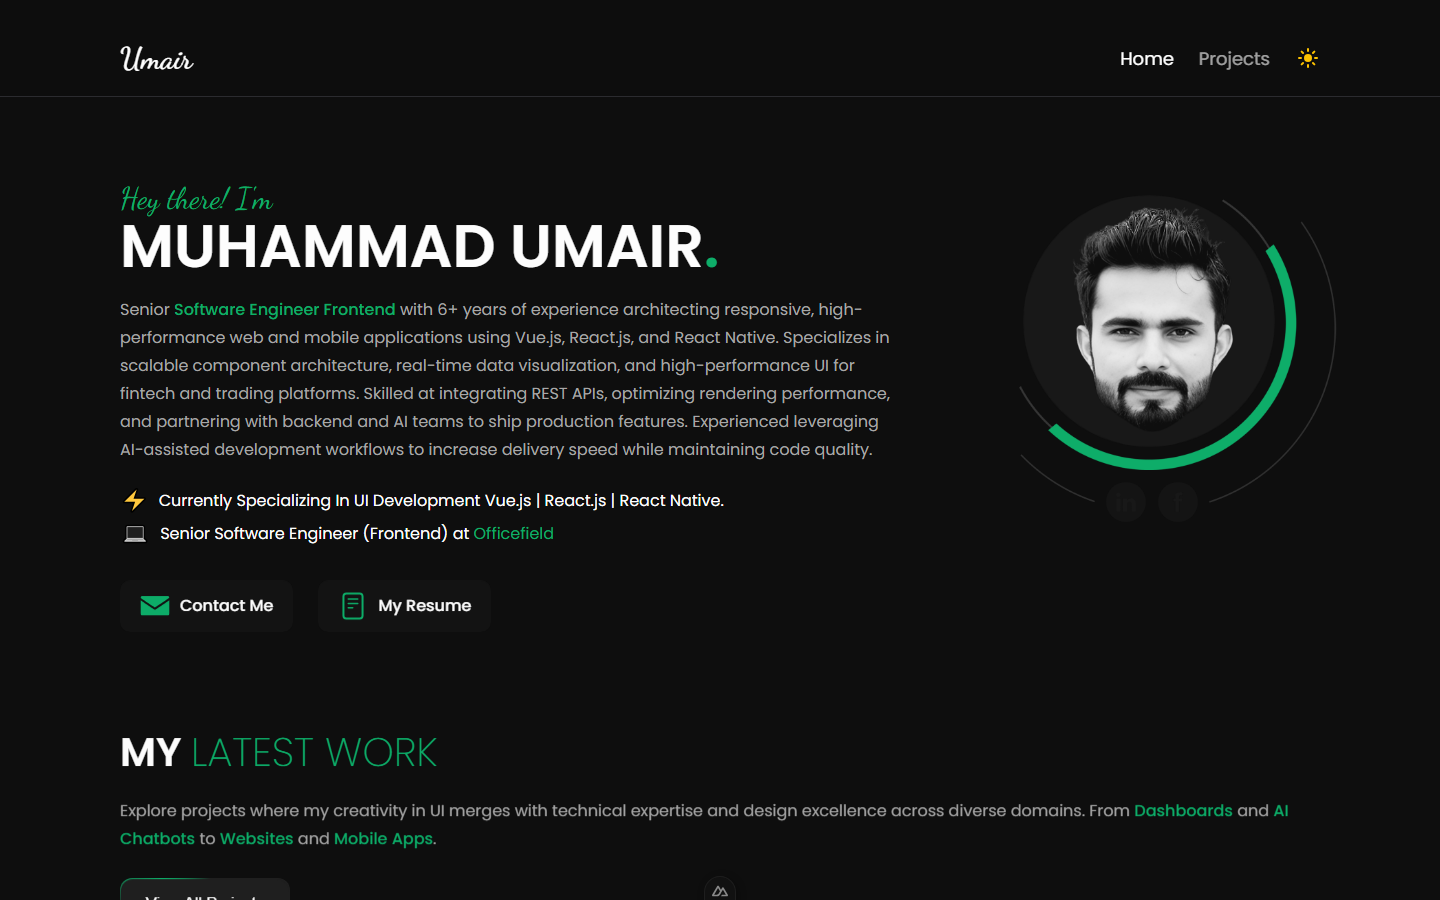
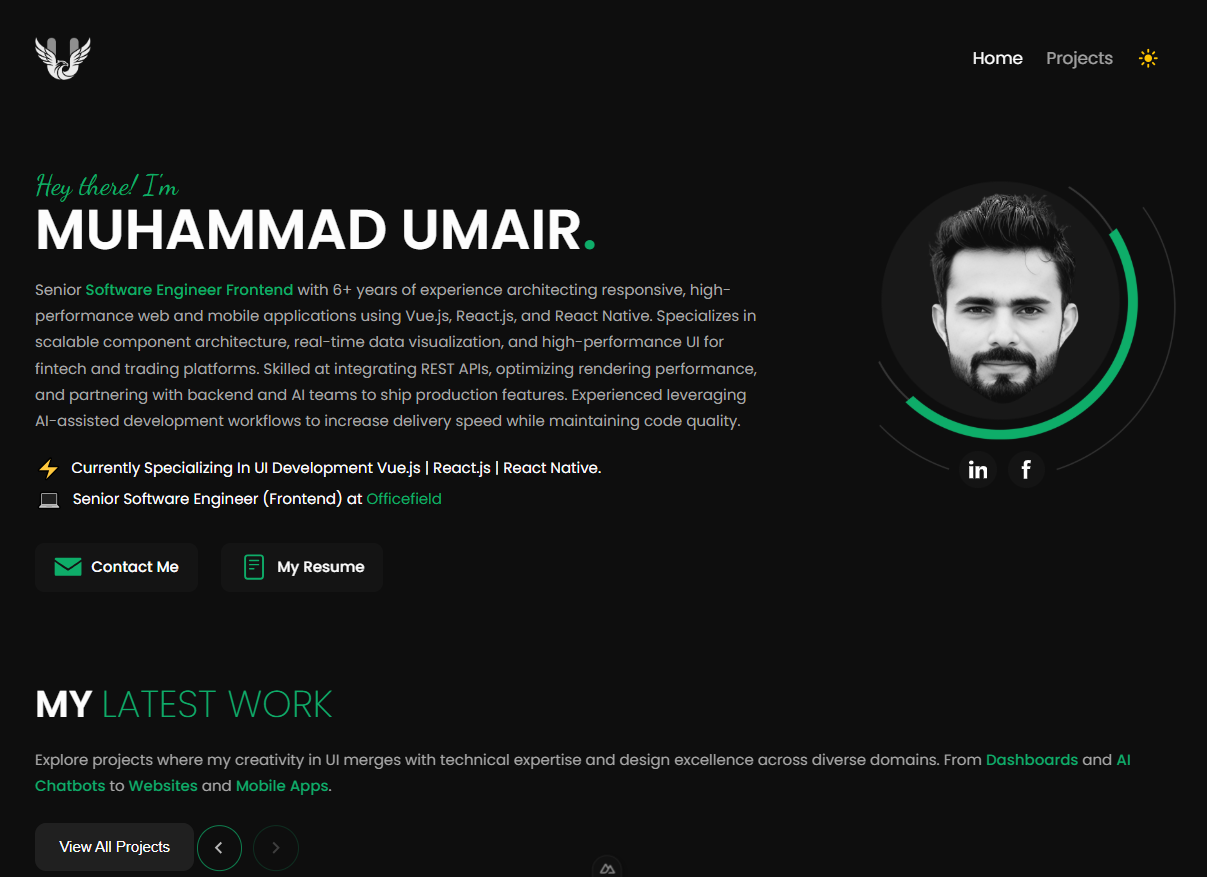
UI
UI

diff --git a/data/projects.js b/data/projects.js
@@ -1,36 +1,8 @@
 export const projects = [
+  
   {
-    slug: 'personal-portfolio',
-    title: 'Personal Portfolio',
-    subtitle: 'Design, Development & Deployment of My Own Showcase',
-    info: 'Designed and developed my own portfolio website from scratch to showcase my work, skills, and experience — handling the full cycle from UI design and component architecture to animations, dark mode, and deployment.',
-    description: [
-      'Built with Nuxt 3 and Vue 3 featuring server-side rendering, auto-imported components, and a custom SCSS design system using CSS variables for consistent theming.',
-      'Implemented a persistent dark mode with saved user preference, AOS scroll animations, and Splide-powered carousels for projects and skills.',
-      'Developed reusable components including a project detail modal with image slider, gradient-border buttons, experience timeline, and a validated EmailJS contact form.',
-      'Responsive across desktop, tablet, and mobile breakpoints, deployed on Vercel with automatic GitHub integration.'
-    ],
-    keyFeatures: [
-      'Dark mode with saved user preference.',
-      'Responsive layout for all screen sizes.',
-      'Animated project modal with gallery slider.',
-      'Scroll-triggered animations and auto-scrolling skill slider.',
-      'Contact form with validation and EmailJS delivery.'
-    ],
-    skills: ['Nuxt.js', 'Vue.js', 'JavaScript', 'SCSS', 'AOS', 'Splide', 'EmailJS', 'Responsive Design', 'Dark Mode UI', 'Vercel'],
-    mainImage: '/assets/Images/project/portfolio/home.png',
-    images: [
-      '/assets/Images/project/portfolio/projects.png',
-      '/assets/Images/project/portfolio/skills.png',
-      '/assets/Images/project/portfolio/experience.png',
-      '/assets/Images/project/portfolio/contact.png',
-      '/assets/Images/project/portfolio/full-site.png'
-    ],
-    liveLink: 'https://www.umairdev.vercel.app/'
-  },
-  {
-    slug: 'Powerfull-Analytics-Dashboard',
-    title: 'Powerfull Analytics Dashboard',
+    slug: 'Traderverse',
+    title: 'Powerfull Social Platform',
     subtitle: 'High-Performance Financial Analytics',
     info: 'Worked on a data-heavy trading analytics dashboard that helps users analyze stock, crypto, and market trends in a structured way. Focused on building scalable UI for handling multiple data views, filters, and chart-based insights.',
     description: [
@@ -76,6 +48,35 @@ export const projects = [
     liveLink: 'https://tradersgpt.io/'
   },
   {
+    slug: 'personal-portfolio',
+    title: 'Personal Portfolio',
+    subtitle: 'Design, Development & Deployment of My Own Showcase',
+    info: 'Designed and developed my own portfolio website from scratch to showcase my work, skills, and experience — handling the full cycle from UI design and component architecture to animations, dark mode, and deployment.',
+    description: [
+      'Built with Nuxt 3 and Vue 3 featuring server-side rendering, auto-imported components, and a custom SCSS design system using CSS variables for consistent theming.',
+      'Implemented a persistent dark mode with saved user preference, AOS scroll animations, and Splide-powered carousels for projects and skills.',
+      'Developed reusable components including a project detail modal with image slider, gradient-border buttons, experience timeline, and a validated EmailJS contact form.',
+      'Responsive across desktop, tablet, and mobile breakpoints, deployed on Vercel with automatic GitHub integration.'
+    ],
+    keyFeatures: [
+      'Dark mode with saved user preference.',
+      'Responsive layout for all screen sizes.',
+      'Animated project modal with gallery slider.',
+      'Scroll-triggered animations and auto-scrolling skill slider.',
+      'Contact form with validation and EmailJS delivery.'
+    ],
+    skills: ['Nuxt.js', 'Vue.js', 'JavaScript', 'SCSS', 'AOS', 'Splide', 'EmailJS', 'Responsive Design', 'Dark Mode UI', 'Vercel'],
+    mainImage: '/assets/Images/project/portfolio/home.png',
+    images: [
+      '/assets/Images/project/portfolio/projects.png',
+      '/assets/Images/project/portfolio/skills.png',
+      '/assets/Images/project/portfolio/experience.png',
+      '/assets/Images/project/portfolio/contact.png',
+      '/assets/Images/project/portfolio/full-site.png'
+    ],
+    liveLink: 'https://www.umairdev.vercel.app/'
+  },
+  {
     slug: 'nitrox-gaming-community',
     title: 'NITROX - GAMING COMMUNITY',
     subtitle: 'Modern Glassmorphism Design',
@@ -87,8 +88,11 @@ export const projects = [
     skills: ['Vue.js', 'JavaScript', 'Tailwind', 'Vuetify', 'Responsive Design', 'Component Architecture'],
     mainImage: '/assets/Images/project/nitrox/nitrox.png',
     images: [
-      '/assets/Images/project/project-POST.jpg',
-      '/assets/Images/project/project-2.png'
+      '/assets/Images/project/nitrox/img5.png',
+      '/assets/Images/project/nitrox/img1.png',
+      '/assets/Images/project/nitrox/img2.png',
+      '/assets/Images/project/nitrox/img3.png',
+      '/assets/Images/project/nitrox/img4.png'
     ],
     liveLink: 'https://nitrox-app.traderverse.io/'
   },

diff --git a/components/Navbar.vue b/components/Navbar.vue
@@ -11,12 +11,14 @@
 <div :class="{ 'scrolled': isScrolled }" class="navbar-top">
     <nav>
       <ul>
-        <li class="logo-li"><nuxt-link to="/"><div class="logo">Umair</div></nuxt-link></li>
-        <li><nuxt-link to="/"><div class="logo">
+        <li class="logo-li"><nuxt-link to="/"><div class="logo">
+          <img src="../public/assets/logo.png" alt="">
+        </div></nuxt-link></li>
+        <!-- <li><nuxt-link to="/"><div class="logo">
           <div class="animated-perspective">U</div>
           <div class="animated-perspective">A</div>
           <div class="animated-perspective">A</div>
-        </div></nuxt-link></li> 
+        </div></nuxt-link></li>  -->
 
         <li class="on-mobile"><nuxt-link to="/">Home</nuxt-link></li>
         <li><nuxt-link to="/projects">Projects</nuxt-link></li>
@@ -82,7 +84,7 @@ onUnmounted(() => {
     backdrop-filter: blur(8px);
     background-color:#0e0e0e84;
     transition: transform 1s ease;
-    border-bottom: 1px solid #3f3f469c;
+    border-bottom: 1px solid transparent;
     nav{
       max-width: 1200px;
       margin: auto;
@@ -90,6 +92,7 @@ onUnmounted(() => {
   }
   .navbar-top.scrolled {
   transform: translateY(-20px); /* Adjust this value to control the upward movement */
+  border-bottom: 1px solid #3f3f469c;
 }
 .mode-toggle {
   cursor: pointer;
@@ -114,7 +117,7 @@ onUnmounted(() => {
     display: flex;
     list-style: none;
     gap: 25px;
-    margin: 40px 0 20px;
+    margin: 32px 0 12px;
     padding: 0;
     align-items: center;
     justify-content: end;
@@ -135,6 +138,10 @@ onUnmounted(() => {
     font-family: "Dancing Script", cursive;
     perspective: 400px;
     transition-duration: 1s;
+    max-width: 60px;
+    img{
+      width: 100%;
+    }
 
     .animated-perspective {
         width: 60px;

diff --git a/components/feature/MySkill.vue b/components/feature/MySkill.vue
@@ -4,7 +4,9 @@ import SkillSlider from '../feature/SkillSlider.vue'
 <template>
     <div class="skill-wrapper">
         <p data-aos="fade-up" class="main-heading">My <span>Skills</span></p>
-        
+         <p data-aos="fade-up" class="skill-info">
+           Front-End Development, UI Architecture, Component-Driven Design, Responsive and Accessible UI, Performance Optimization, Data-Heavy Interfaces.
+         </p>
         <div data-aos="fade-up" class="work-experience">
                 <div class="service">
                     <span>
@@ -24,8 +26,8 @@ import SkillSlider from '../feature/SkillSlider.vue'
         <SkillSlider />
 
            <p data-aos="fade-up" class="skill-info">
-            Expertise in developing UIs for web and mobile apps using modern tech like React, Next.js, and libraries. My skills include frontend development with HTML, CSS, JavaScript, and creative design in Figma and Adobe XD. I'm also experienced in Git and development tools.
-        </p>
+            <br><span style="color: #0ead69; font-weight: 600;" >Tools & Practices:</span> Git, GitHub, JIRA, npm/yarn, Vite, Webpack, Postman, ESLint, Prettier, VS Code, Agile/Scrum, Lazy Loading, AI-Assisted Development, Cross-Functional Collaboration, Code Reviews.
+</p>
     </div>
 </template>
 <style lang="scss" scoped>

diff --git a/components/ProjectsSection.vue b/components/ProjectsSection.vue
@@ -55,9 +55,9 @@ breakpoints: {
         <div  class="project-wrapper" >
             <div data-aos="fade-up" class="project-description " >
                 <p>
-                    Explore projects where my creativity in UI merges with technical expertise and design excellence across diverse domains.
-                 From <span style="color:#0ead69;font-weight:500;">Dashboards</span> and <span style="color:#0ead69;font-weight:500;">AI Chatbots</span> to <span style="color:#0ead69;font-weight:500;">Websites</span> and  <span style="color:#0ead69;font-weight:500;">Mobile Apps</span>.
-            </p>
+                 A selection of projects I've designed and engineered across different domains.
+                Clean code, thoughtful design, and real-world impact in every one.
+                Each built with a focus on performance, scalability, and attention to detail.</p>
             <nuxt-link style="text-decoration: none;" to="/projects">
                 <MyButton buttonMargin="25px 0 0" buttonText="View All Projects" />
             </nuxt-link >
@@ -119,7 +119,7 @@ breakpoints: {
 .splide__arrows{
     position: absolute;
     top: -50px;
-    left: 160px;
+    left: 185px;
 }
 .splide__arrow svg{
     fill: #fff !important;

diff --git a/components/HomeSection.vue b/components/HomeSection.vue
@@ -139,11 +139,20 @@
             align-items: center;
             justify-content: center;
             transition-duration: 0.5s;
-            
+
+            svg{
+                width: 100%;
+                height: 100%;
+                fill: #ffffff;
+            }
+
             &:hover {
             background-color: #0ead69;
             transition-duration: 0.5s;
 
+                svg{
+                    fill: #0e0e0e;
+                }
             }
         }   
     }
@@ -299,6 +308,14 @@
     .circle{
     background-color: #d4d4d4;
 }
+}
+
+.dark-mode .social-follwing a{
+    background-color: #ffffff;
+}
+
+.dark-mode .social-follwing a svg{
+    fill: #0ead69;
 }
 
 @media screen and (max-width: 991px) {

diff --git a/public/assets/styles/style.scss b/public/assets/styles/style.scss
@@ -53,7 +53,7 @@ body {
     // color: #bcbcbc;
     color: var(--text-secondary);
     font-size: 16px;
-    line-height: 28px;
+    line-height: 25px;
   }
   // .dark-mode p {
   //   color: #181818;
